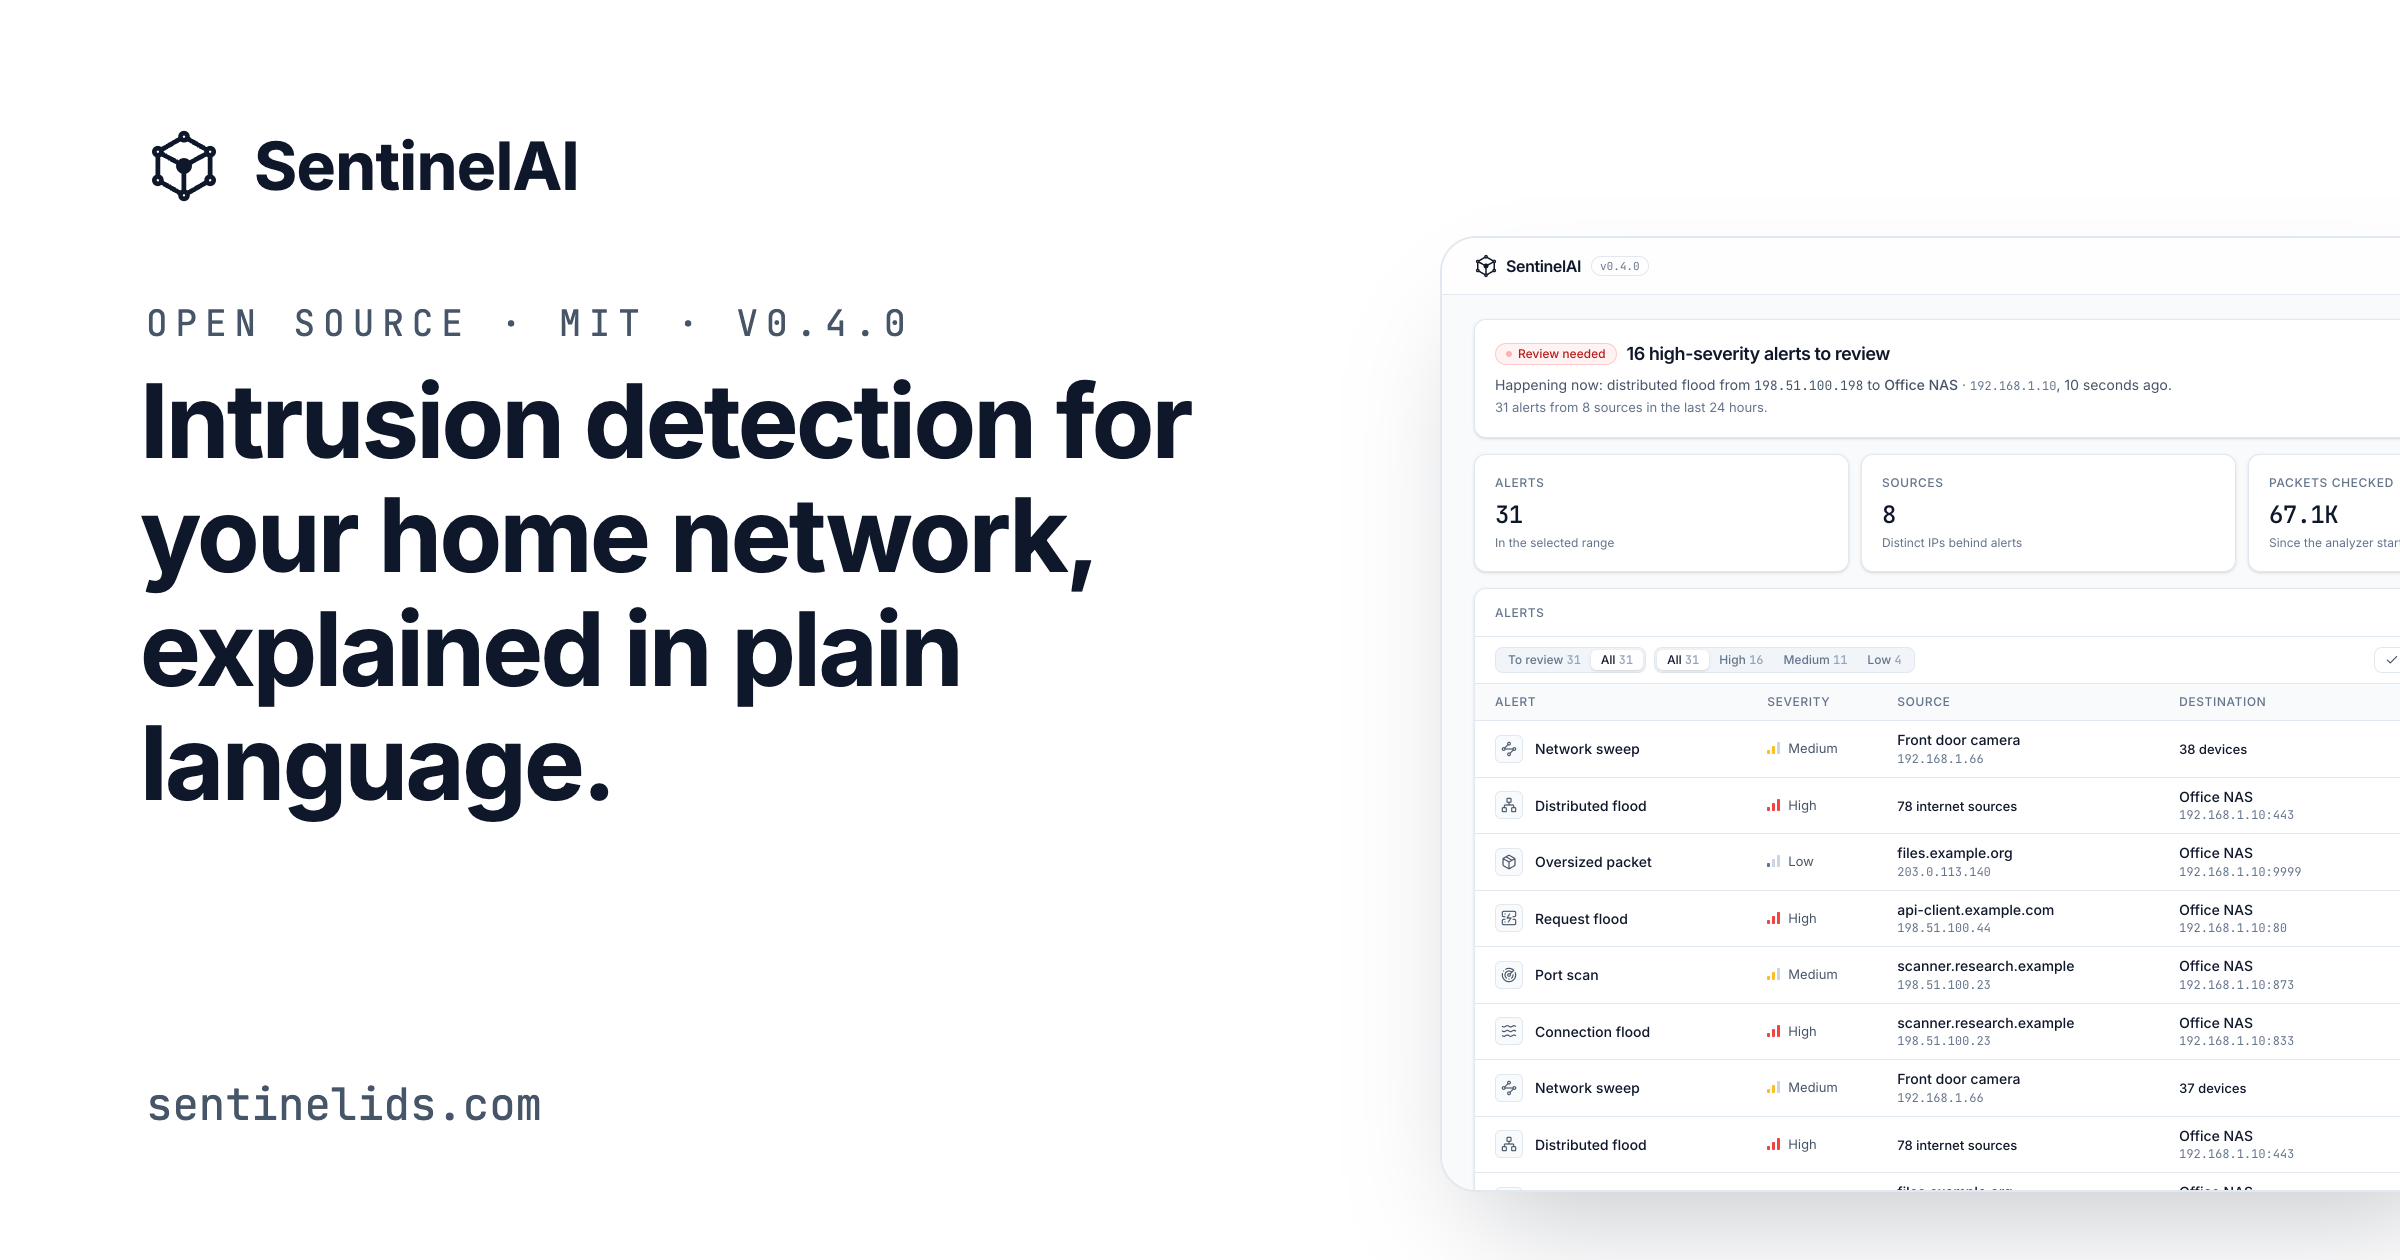
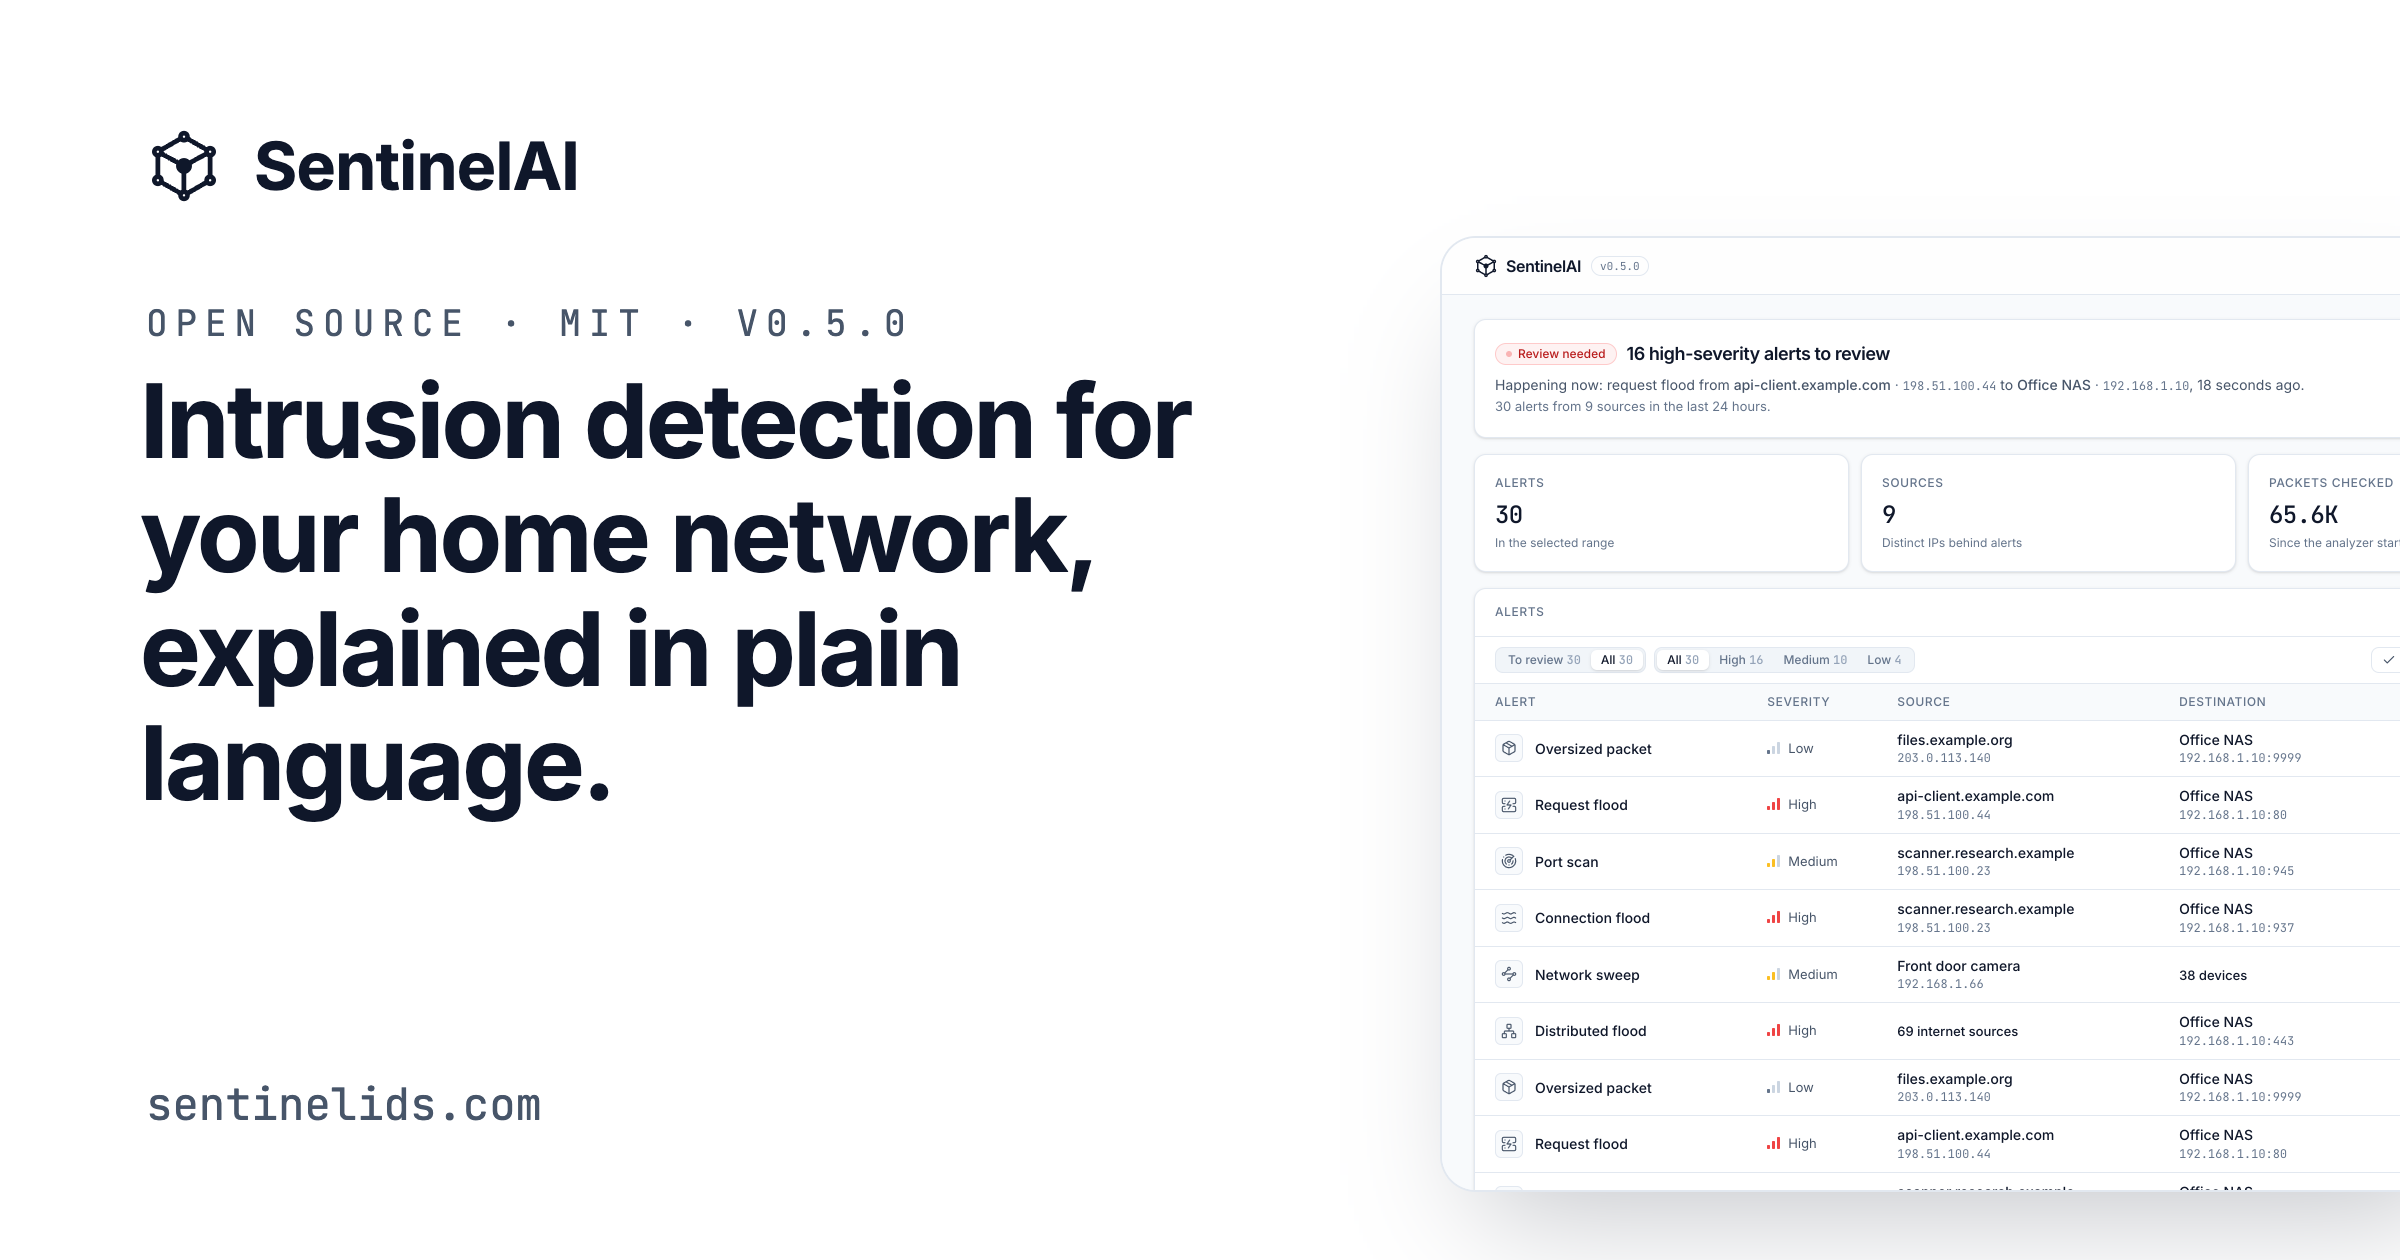
Release 0.5.0

diff --git a/website/data/site.ts b/website/data/site.ts
@@ -12,7 +12,7 @@
 
 export const site = {
   name: "SentinelAI",
-  version: "0.4.0",
+  version: "0.5.0",
   repo: "https://github.com/smngvlkz/sentinel",
   evaluationDoc: "https://github.com/smngvlkz/sentinel/blob/master/docs/evaluation.md",
   roadmapDoc: "https://github.com/smngvlkz/sentinel/blob/master/docs/ROADMAP.md",
@@ -152,12 +152,13 @@ export const features: Feature[] = [
   {
     tag: "Resilience",
     icon: "gauge",
-    title: "Holds up under a flood",
-    body: "Everything SentinelAI keeps in memory has a hard limit, so a flood from made-up addresses can't use up your machine. Ten million spoofed connections leave it flat at about 410 MB.",
+    title: "Built to run unattended",
+    body: "Everything SentinelAI keeps has a hard limit, in memory and on disk, so it can run for months without filling up your machine. Ten million spoofed connections leave its memory flat at about 410 MB.",
     points: [
+      "Old alerts deleted after 90 days, with at most 500,000 kept (about 750 MB), so the database can't fill your disk",
       "Connections seen more than once are protected, so a flood has a much harder time pushing a slow scan out of memory before it's caught",
       "A Memory limit reached alert if a flood ever gets that far",
-      "/health shows how full each table is, how far behind the analyzer is, and any packets lost",
+      "/health shows memory, the analyzer's backlog, lost packets and the database's size",
     ],
   },
   {
@@ -174,17 +175,12 @@ export const features: Feature[] = [
   },
 ];
 
-export type NextIcon = "disk" | "cpu" | "bell" | "sparkles";
+export type NextIcon = "cpu" | "bell" | "sparkles";
 
 export type NextItem = { icon: NextIcon; title: string; body: string };
 
 // Planned, not built. Details and "done" criteria are in docs/ROADMAP.md.
 export const next: NextItem[] = [
-  {
-    icon: "disk",
-    title: "Old alerts cleaned up",
-    body: "Alerts older than a set age, 90 days by default, deleted automatically, with a cap on the total as a backstop, so the database can't fill your disk.",
-  },
   {
     icon: "cpu",
     title: "Raspberry Pi installer",
@@ -216,10 +212,6 @@ export const limits: Limit[] = [
   {
     title: "It misses slow attacks and anything inside the payload",
     body: "Slowloris sends almost no traffic, by design, and was missed completely. Heartbleed lives inside encrypted traffic, which SentinelAI doesn't read. Both were 0% in testing.",
-  },
-  {
-    title: "It keeps every alert, for now",
-    body: "Old alerts aren't deleted yet, so on an install that runs for months the database keeps growing. Deleting old alerts automatically is the next thing on the roadmap.",
   },
   {
     title: "It detects, it doesn't block",

diff --git a/website/components/WhatsNext.vue b/website/components/WhatsNext.vue
@@ -1,8 +1,8 @@
 <script setup lang="ts">
-import { BellRing, Cpu, HardDrive, Sparkles } from "lucide-vue-next";
+import { BellRing, Cpu, Sparkles } from "lucide-vue-next";
 import { next, site, type NextIcon } from "~/data/site";
 
-const icons: Record<NextIcon, unknown> = { disk: HardDrive, cpu: Cpu, bell: BellRing, sparkles: Sparkles };
+const icons: Record<NextIcon, unknown> = { cpu: Cpu, bell: BellRing, sparkles: Sparkles };
 </script>
 
 <template>
@@ -13,7 +13,7 @@ const icons: Record<NextIcon, unknown> = { disk: HardDrive, cpu: Cpu, bell: Bell
         title="Planned, not built yet."
         lead="None of this exists today. Each has a written plan, with what it must do before it ships."
       />
-      <div class="mt-12 grid gap-px overflow-hidden rounded-xl border border-line bg-line md:grid-cols-2 lg:grid-cols-4">
+      <div class="mt-12 grid gap-px overflow-hidden rounded-xl border border-line bg-line md:grid-cols-3">
         <article v-for="n in next" :key="n.title" class="bg-bg p-6 transition-colors duration-200 hover:bg-bg-3">
           <div class="flex items-center justify-between gap-3">
             <component :is="icons[n.icon]" class="size-5 text-fg-3" :stroke-width="1.5" aria-hidden="true" />

diff --git a/tests/test_retention.py b/tests/test_retention.py
@@ -180,3 +180,26 @@ def test_large_cleanup_fits_dockers_shared_memory(db):
     keeper = Retention({}, 90, 500_000)
     assert keeper.run_once(conn) == (0, 500_000)  # deletes, then VACUUMs; must not raise
     assert count(cur) == 500_000
+
+
+def test_first_pass_checks_age_even_right_after_boot(monkeypatch):
+    """time.monotonic() counts from boot; the first pass must not wait an hour after a reboot."""
+    keeper = Retention({}, 90, 500_000)
+    passes = []
+
+    class Conn:
+        closed = False
+
+    monkeypatch.setattr(retention.psycopg2, "connect", lambda **_: Conn())
+    monkeypatch.setattr(retention.time, "monotonic", lambda: 120.0)  # two minutes after boot
+    monkeypatch.setattr(keeper, "run_once", lambda conn, check_age=True: passes.append(check_age))
+
+    class StopAfterOne:
+        def is_set(self):
+            return bool(passes)
+
+        def wait(self, _):
+            pass
+
+    keeper.loop(StopAfterOne())
+    assert passes == [True]

diff --git a/alert_service/retention.py b/alert_service/retention.py
@@ -75,7 +75,9 @@ class Retention:
         self.dsn = dsn
         self.max_age_days = float(max_age_days)
         self.max_alerts = max(1, int(max_alerts))
-        self.last_age_check = 0.0
+        # Never checked: the first pass checks age too, however soon after boot
+        # the analyzer starts (time.monotonic() counts from boot).
+        self.last_age_check = float("-inf")
         self.deleted_total = 0
 
     def run_once(self, conn, check_age: bool = True) -> tuple[int, int]:

diff --git a/dashboard-api/main.py b/dashboard-api/main.py
@@ -31,7 +31,7 @@ load_dotenv()
 
 log = logging.getLogger(__name__)
 
-VERSION = "0.4.0"
+VERSION = "0.5.0"
 
 STREAM_NAME = "packet_stream"
 HEARTBEAT_KEY = "sentinel:analyzer:heartbeat"

diff --git a/CHANGELOG.md b/CHANGELOG.md
@@ -6,6 +6,8 @@ uses [Semantic Versioning](https://semver.org/).
 
 ## [Unreleased]
 
+## [0.5.0] - 2026-10-04
+
 ### Added
 
 - Old alerts are deleted automatically, so the database can't fill the
@@ -28,6 +30,20 @@ uses [Semantic Versioning](https://semver.org/).
 - Alert ids are now 64-bit. They were 32-bit, which runs out at about 2.1
   billion and never reuses ids. The first start after upgrading rewrites the
   alerts table once.
+
+### Known limitations
+
+- Deleted alerts are gone for good; there's no export or archive yet. Raise
+  `max_age_days` or `max_alerts` under `[retention]` to keep more.
+- Postgres reuses the space freed by deleted alerts rather than giving it
+  back to the operating system, so the database stays about the size of
+  the limit, not smaller.
+- Retention runs inside the analyzer: while the analyzer is stopped, nothing
+  is deleted (and nothing new is stored either).
+- The limitations listed for 0.4.0 that aren't about the database still
+  apply: a fast enough flood can still hide a slow scan, packets dropped by
+  the kernel aren't reported, and the API has no authentication, so keep it
+  on localhost.
 
 ## [0.4.0] - 2026-10-03
 
@@ -224,7 +240,8 @@ First public release.
 - Evaluation against CIC-IDS2017, with results in
   [docs/evaluation.md](docs/evaluation.md).
 
-[Unreleased]: https://github.com/smngvlkz/sentinel/compare/v0.4.0...HEAD
+[Unreleased]: https://github.com/smngvlkz/sentinel/compare/v0.5.0...HEAD
+[0.5.0]: https://github.com/smngvlkz/sentinel/compare/v0.4.0...v0.5.0
 [0.4.0]: https://github.com/smngvlkz/sentinel/compare/v0.3.0...v0.4.0
 [0.3.0]: https://github.com/smngvlkz/sentinel/compare/v0.2.0...v0.3.0
 [0.2.0]: https://github.com/smngvlkz/sentinel/compare/v0.1.0...v0.2.0

diff --git a/docs/ROADMAP.md b/docs/ROADMAP.md
@@ -37,7 +37,7 @@ easy to roll back.
 |---------|------|-------|
 | 0.1.0 to 0.3.0 | | Shipped: detection, held-out evaluation, hostnames on alerts |
 | 0.4.0 | 1.1 | Shipped: memory stays bounded, even under attack. Alerts are still never deleted, so the database keeps growing |
-| 0.5.0 | 1.2 | Data retention: disk stays bounded too. From here it can run unattended |
+| 0.5.0 | 1.2 | Shipped: data retention, so disk stays bounded too. From here it can run unattended |
 | 0.6.0 | 1.3 | Authentication |
 | 0.7.0 | 1.4 | Seeing the whole network, including running on a Raspberry Pi |
 | 0.8.0 | 1.5 | Fewer false alarms |
